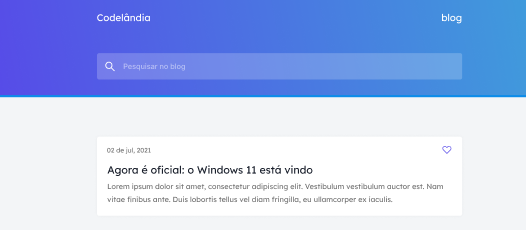
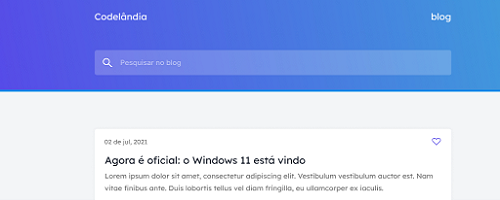
add bootstrap

diff --git a/index.html b/index.html
@@ -5,35 +5,47 @@
   <meta charset="UTF-8">
   <meta http-equiv="X-UA-Compatible" content="IE=edge">
   <meta name="viewport" content="width=device-width, initial-scale=1.0">
-  <link rel="stylesheet" href="style.css">
+  <!-- CSS only -->
+  <link href="https://cdn.jsdelivr.net/npm/bootstrap@5.2.2/dist/css/bootstrap.min.css" rel="stylesheet" integrity="sha384-Zenh87qX5JnK2Jl0vWa8Ck2rdkQ2Bzep5IDxbcnCeuOxjzrPF/et3URy9Bv1WTRi" crossorigin="anonymous">
+  <link rel="stylesheet" href="./style.css">
   <title>Frontend Projects</title>
 </head>
 
-<body>
+<body class="container">
 
-  <h1>Frontend Projects</h1>
+  <h1 class="display-6">Frontend Projects</h1>
   <hr>
-  <main class="grid">
-    <div class="card">
-      <h4>Blog</h4>
-      <img src="./assets/01-blog.png" alt="">
-      <p>Projeto de um blog usando apenas HTML e CSS.</p>
-      <div class="links">
-        <button><a target="_blank" href="https://github.com/lgolin/frontend-projects/tree/main/01-blog">Source</a></button>
-        <button><a target="_blank" href="https://lgolin.github.io/frontend-projects/01-blog">Demo</a></button>
-      </div>
-    </div>
 
-    <div class="card">
-      <h4>Jordan Shoes</h4>
-      <img src="./assets/02-jordan.png" alt="">
-      <p>Projeto de uma loja de sapatos - criado usando HTML e CSS.</p>
-      <div class="links">
-        <button><a target="_blank" href="https://github.com/lgolin/frontend-projects/tree/main/02-JordanShoes">Source</a></button>
-        <button><a target="_blank" href="https://lgolin.github.io/frontend-projects/02-JordanShoes">Demo</a></button>
+  <div class="container">
+    <div class="row gap-3 ">
+      <div class="card shadow p-3 mb-5 bg-body rounded" style="width: 18rem;">
+        <img src="./assets/01-blog.png" class="card-img-top mt-2 ">
+        <div class="card-body">
+          <h5 class="card-title">Blog</h5>
+          <p class="card-text">Primeiro projeto desenvolvido pela comunidade Codelandia.</p>
+        </div>
+        <div class="card-body d-flex justify-content-between">
+          <a href="#" class="btn btn-light">Source Code</a>
+          <a href="#" class="btn btn-light">Demo</a>
+        </div>
+      </div>
+
+      <div class="card shadow p-3 mb-5 bg-body rounded" style="width: 18rem;">
+        <img src="./assets/02-jordan.png" class="card-img-top mt-2">
+        <div class="card-body">
+          <h5 class="card-title">Jordan Shoes</h5>
+          <p class="card-text">Primeiro projeto desenvolvido pela comunidade Codelandia.</p>
+        </div>
+        <div class="card-body d-flex justify-content-between">
+          <a href="#" class="btn btn-light">Source Code</a>
+          <a href=" #" class="btn btn-light">Demo</a>
+        </div>
       </div>
     </div>
-  </main>
+  </div>
+
+  <!-- JavaScript Bundle with Popper -->
+  <script src=" https://cdn.jsdelivr.net/npm/bootstrap@5.2.2/dist/js/bootstrap.bundle.min.js" integrity="sha384-OERcA2EqjJCMA+/3y+gxIOqMEjwtxJY7qPCqsdltbNJuaOe923+mo//f6V8Qbsw3" crossorigin="anonymous"></script>
 </body>
 
 </html>

diff --git a/style.css b/style.css
@@ -1,99 +1,7 @@
-@import url('https://fonts.googleapis.com/css2?family=Inter&family=Lexend+Deca&display=swap');
-
-* {
-  padding: 0;
-  margin: 0;
-  box-sizing: border-box;
-}
-
-:root {
-  --text: #373739;
-  --text-button: #f7f7f9;
-  --bg: rgba(238, 235, 248, 0.5);
-  --button-bg: #7658dc;
-
-  --ff-Inter: 'Inter', sans-serif;
-  --ff-Lexend: 'Lexend Deca', sans-serif;
-}
-
-html {
-  color: var(--text);
-  font-family: var(--ff-Lexend);
-}
-
-body {
-  width: 50%;
-  margin: 2rem auto;
-}
-
-p {
-  font-size: 0.75rem;
-  margin-bottom: 1rem;
-  height: 4vh;
-}
-
-.grid {
-  display: flex;
-}
-
 .card {
-  width: 250px;
-  height: 45vh;
-  margin: 3rem 1rem;
-  padding: 1rem;
-  border-radius: 8px;
-  box-shadow: 0px 5px 10px rgba(0, 0, 0, 0.1);
-  background: var(--bg);
-}
-
-img {
-  /* height: 100px; */
-  height: 20vh;
-  max-width: 100%;
-
-  border-radius: 4px;
-  margin: 1.5rem auto;
-  box-shadow: 1px 0px 20px rgba(0, 0, 0, 0.2);
-}
-
-.links {
-  display: flex;
-  justify-content: space-between;
-}
-
-button {
   border: none;
-  padding: 0.5rem 1.5rem;
-  border-radius: 8px;
-  background: var(--button-bg);
-  box-shadow: 0px 5px 10px rgba(0, 0, 0, 0.1);
-  transition: 0.2;
 }
 
-button:hover {
-  opacity: 0.8;
-}
-
-button a {
-  text-decoration: none;
-  font-family: var(--ff-Lexend);
-  color: var(--text-button);
-}
-
-@media screen and (max-width: 900px) {
-  .grid {
-    display: block;
-    margin: 1rem auto;
-  }
-}
-
-@media screen and (max-width: 500px) {
-  html {
-    font-size: 75%;
-  }
-  .card {
-    margin: 1.5rem 0;
-    width: 100%;
-    height: 100%;
-  }
+.btn-light {
+  background: #f7f7f7;
 }
